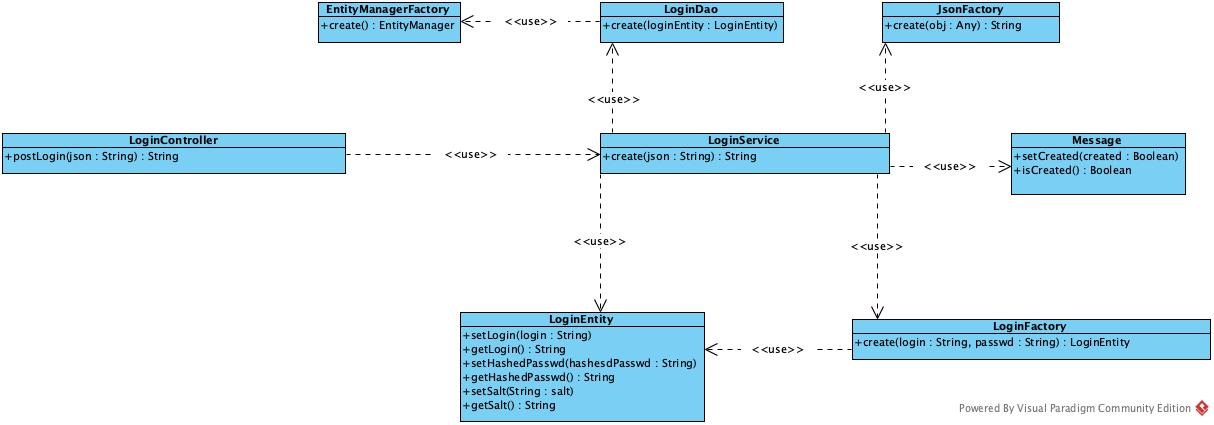
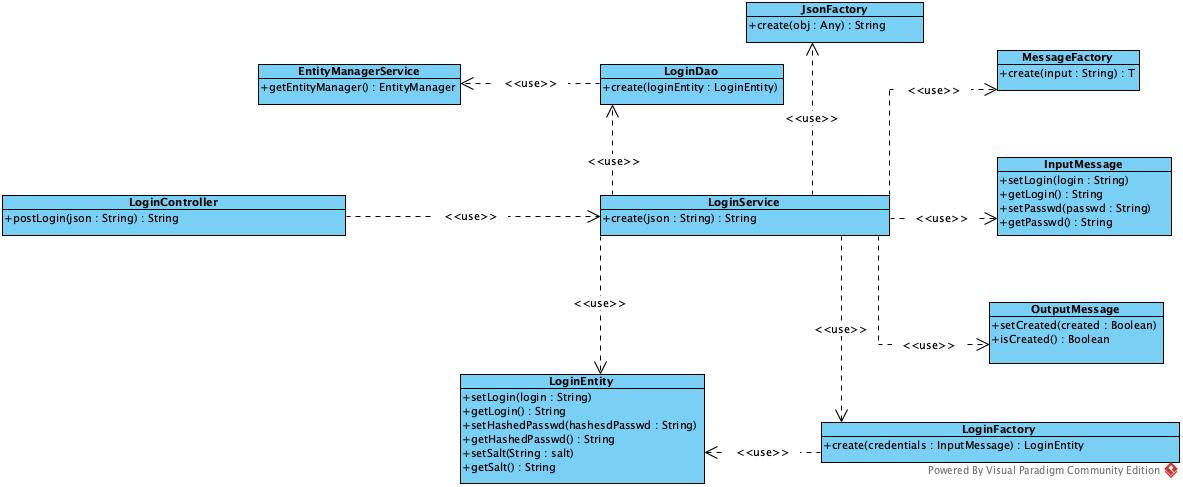
upgrade

diff --git a/src/main/java/eu/pstdio/LoginCreatorApi/business/model/InputMessage.kt b/src/main/java/eu/pstdio/LoginCreatorApi/business/model/InputMessage.kt
@@ -1,0 +1,8 @@
+package eu.pstdio.LoginCreatorApi.business.model
+
+interface InputMessage {
+	fun setLogin(login : String)
+	fun getLogin() : String
+	fun setPasswd(passwd : String)
+	fun getPasswd() : String
+}

diff --git a/src/main/java/eu/pstdio/LoginCreatorApi/business/service/EntityManagerService.kt b/src/main/java/eu/pstdio/LoginCreatorApi/business/service/EntityManagerService.kt
@@ -1,4 +1,4 @@
-package eu.pstdio.LoginCreatorApi.business.factory
+package eu.pstdio.LoginCreatorApi.business.service
 
 import javax.persistence.EntityManager
 

diff --git a/src/main/java/eu/pstdio/LoginCreatorApi/business/factory/MessageFactory.kt b/src/main/java/eu/pstdio/LoginCreatorApi/business/factory/MessageFactory.kt
@@ -1,0 +1,5 @@
+package eu.pstdio.LoginCreatorApi.business.factory
+
+interface MessageFactory {
+	fun <T> create(input : String) : T
+}
